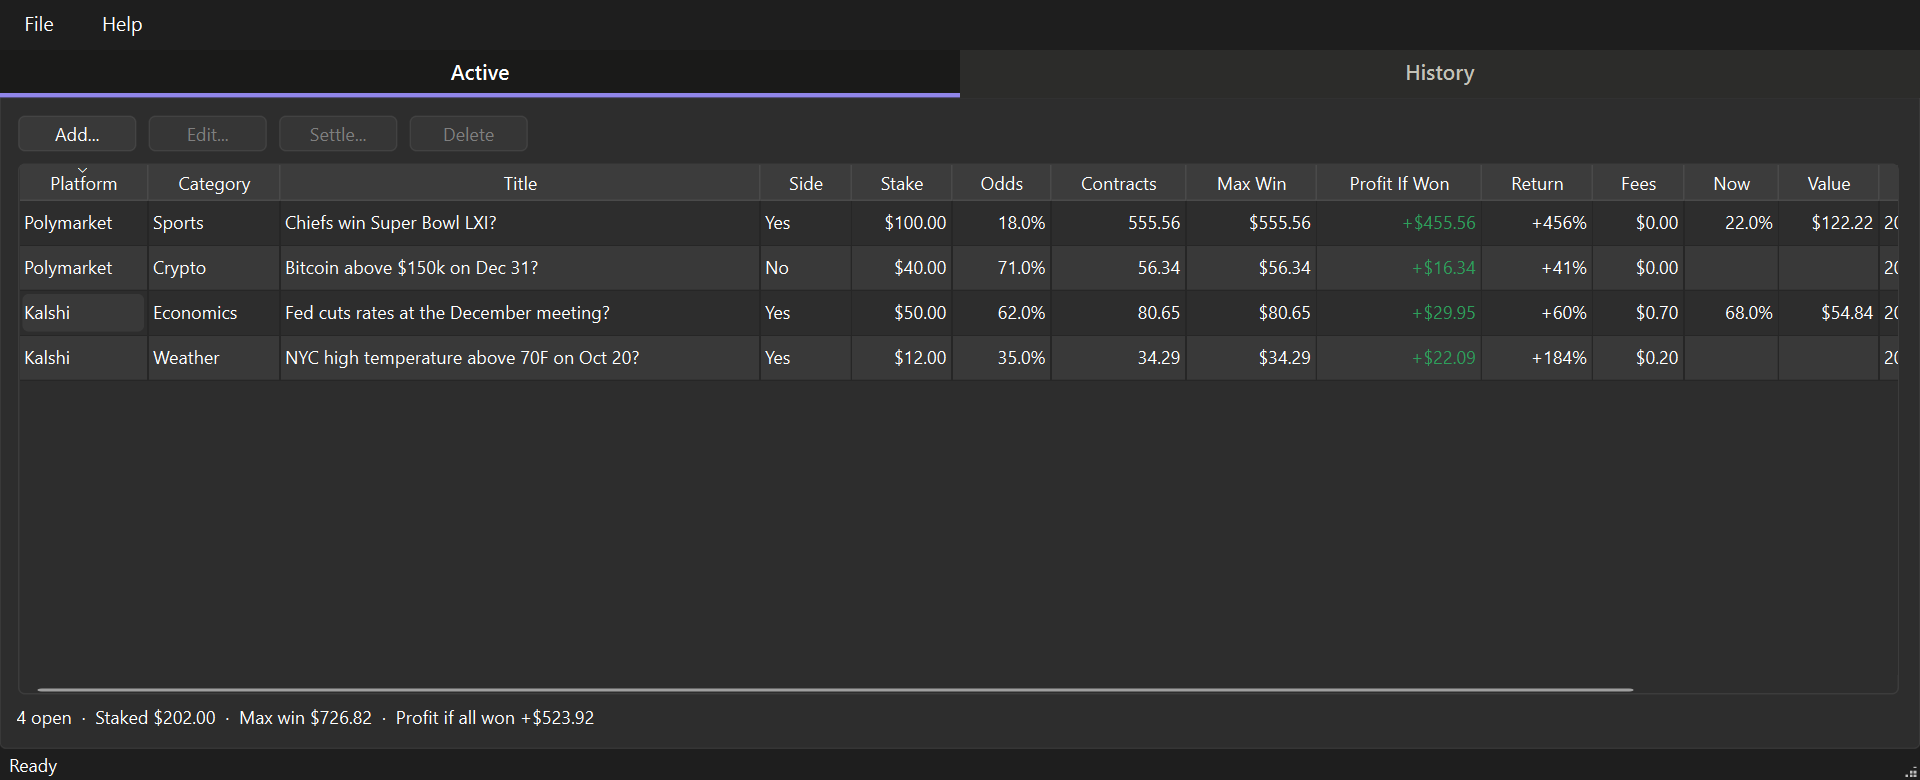
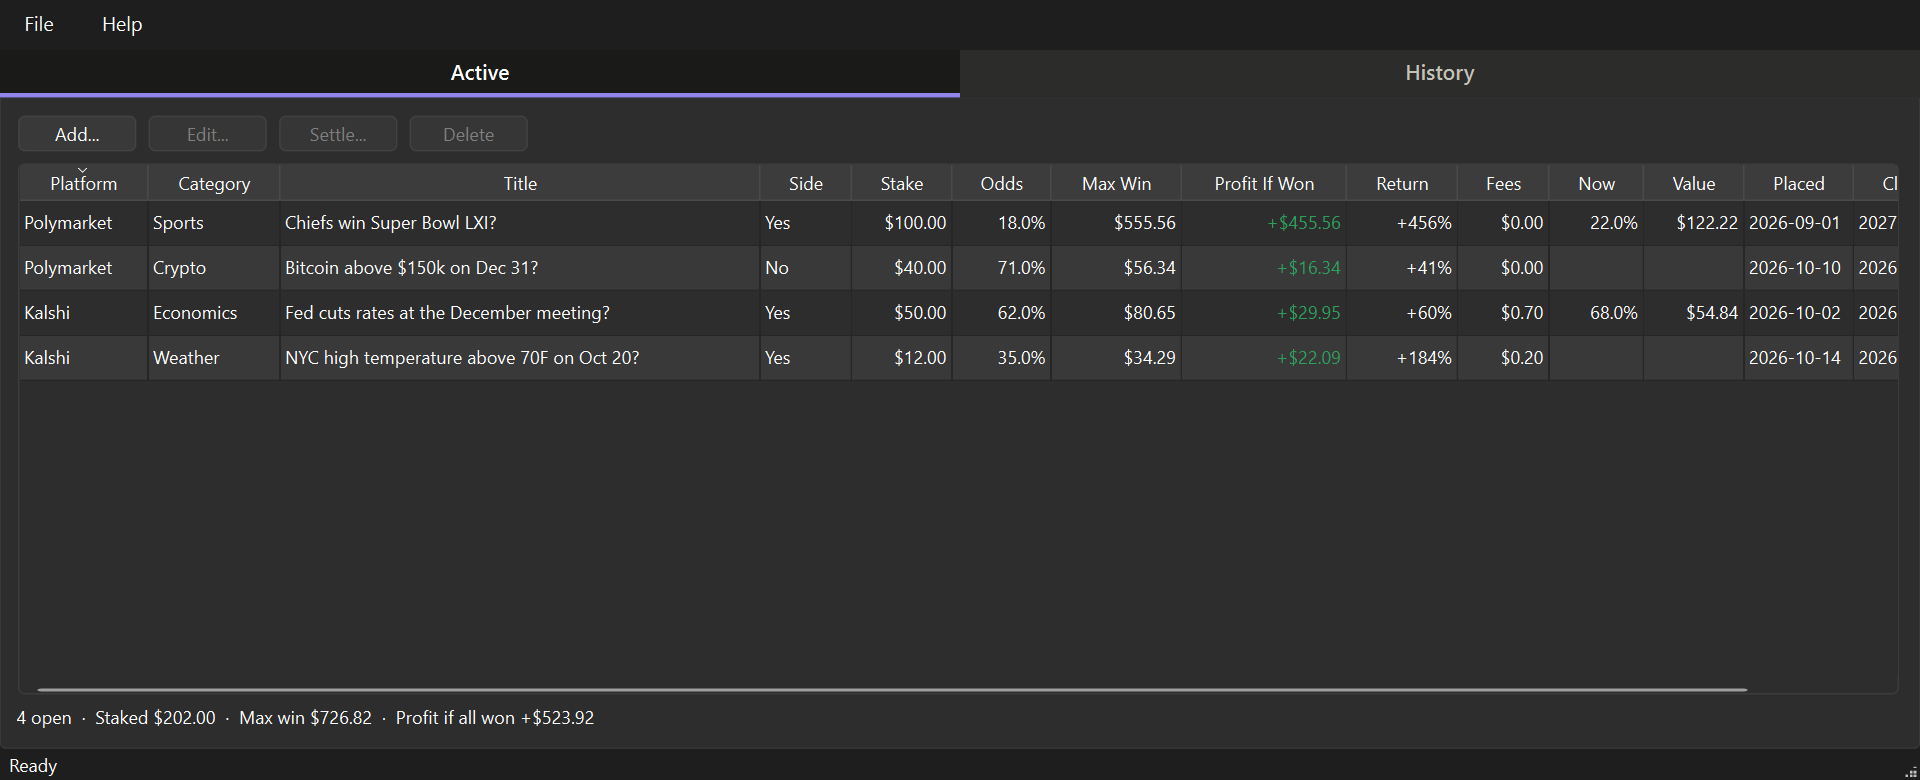
Drop the Contracts column from the Active table
Each contract pays $1, so the contract count is the Max Win in dollars
and the column only repeated it. The add/edit form's summary line and the
CSV export still give the count, and the manual says why the table shows
Max Win alone. Screenshots refreshed.

diff --git a/src/wagerBook/ui/wagers/wagerColumns.py b/src/wagerBook/ui/wagers/wagerColumns.py
@@ -89,9 +89,6 @@ titleColumn = Column("Title", lambda w: w.title, lambda w: w.title)
 sideColumn = Column("Side", lambda w: str(w.side), lambda w: str(w.side))
 stakeColumn = Column("Stake", lambda w: w.stake, lambda w: money(w.stake), numeric=True)
 oddsColumn = Column("Odds", lambda w: w.price, lambda w: percent(w.price), numeric=True)
-contractsColumn = Column(
-    "Contracts", lambda w: w.contracts, lambda w: count(w.contracts), numeric=True
-)
 maxWinColumn = Column(
     "Max Win", lambda w: w.maxPayout, lambda w: money(w.maxPayout), numeric=True
 )
@@ -133,9 +130,11 @@ settledColumn = Column(
     "Settled", lambda w: sortableDate(w.settledOn), lambda w: dateText(w.settledOn)
 )
 
+# No Contracts column: each contract pays $1, so the count is Max Win in dollars
+# and a second column would only repeat it. The edit form still states it.
 activeColumns: list[Column] = [
     platformColumn, categoryColumn, titleColumn, sideColumn, stakeColumn, oddsColumn,
-    contractsColumn, maxWinColumn, profitIfWonColumn, returnIfWonColumn, feesColumn,
+    maxWinColumn, profitIfWonColumn, returnIfWonColumn, feesColumn,
     nowColumn, valueColumn, placedColumn, closesColumn,
 ]
 

diff --git a/tests/testUi/testWagerTable.py b/tests/testUi/testWagerTable.py
@@ -54,7 +54,6 @@ def testActiveRowShowsTheBettingNumbers(qtbot) -> None:
     assert texts["Side"] == "No"
     assert texts["Stake"] == "$25.00"
     assert texts["Odds"] == "40.0%"
-    assert texts["Contracts"] == "62.50"
     assert texts["Max Win"] == "$62.50"
     assert texts["Profit If Won"] == "+$37.00"
     assert texts["Return"] == "+148%"
@@ -81,6 +80,13 @@ def testClosedRowShowsTheOutcome(qtbot) -> None:
     assert texts["P&L"] == "+$59.60"
     assert texts["Return"] == "+298%"
     assert texts["Settled"] == "2026-10-05"
+
+
+def testNoColumnRepeatsMaxWin() -> None:
+    """A contract pays $1, so a Contracts column would be Max Win again."""
+    titles = [column.title for column in activeColumns]
+    assert "Contracts" not in titles
+    assert "Max Win" in titles
 
 
 def testUnknownValuesAreBlankNotZero(qtbot) -> None:

diff --git a/README.md b/README.md
@@ -8,7 +8,7 @@ actually paid. PySide6, one JSON file, nothing sent anywhere.
 
 ## What it does
 
-- **Active** tab: open wagers with platform, category, title, side, stake, odds, contracts,
+- **Active** tab: open wagers with platform, category, title, side, stake, odds,
   max win, profit and return if won, fees, current price and mark value, placed and close dates
 - **History** tab: closed wagers with the result, payout, realised P&L and return
 - **Add / Edit** dialog that works the contracts, max win and profit out as you type

diff --git a/docs/manual/README.md b/docs/manual/README.md
@@ -41,6 +41,10 @@ Both sites sell contracts that pay **$1** if your side is right and nothing if i
 - **Profit If Won** = Max Win − Stake − Fees
 - **Return** = Profit If Won ÷ Stake
 
+Because each contract pays $1, the number of contracts and the Max Win in dollars are the same
+figure, so the table shows only Max Win. The add/edit form's summary line still states the
+contract count.
+
 A No wager uses the No price. Buying No at 70 cents is a 70 % chance in the market's eyes,
 not 30 %.
 
